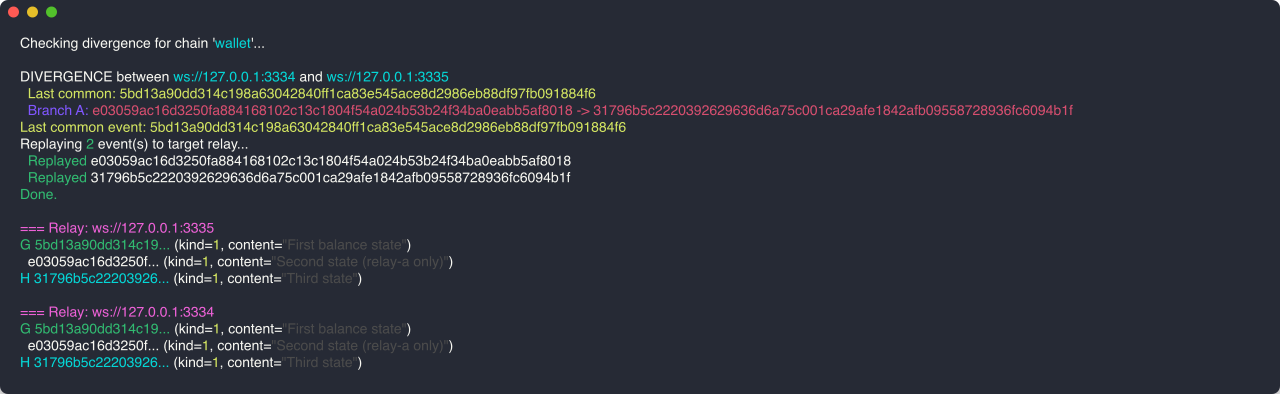
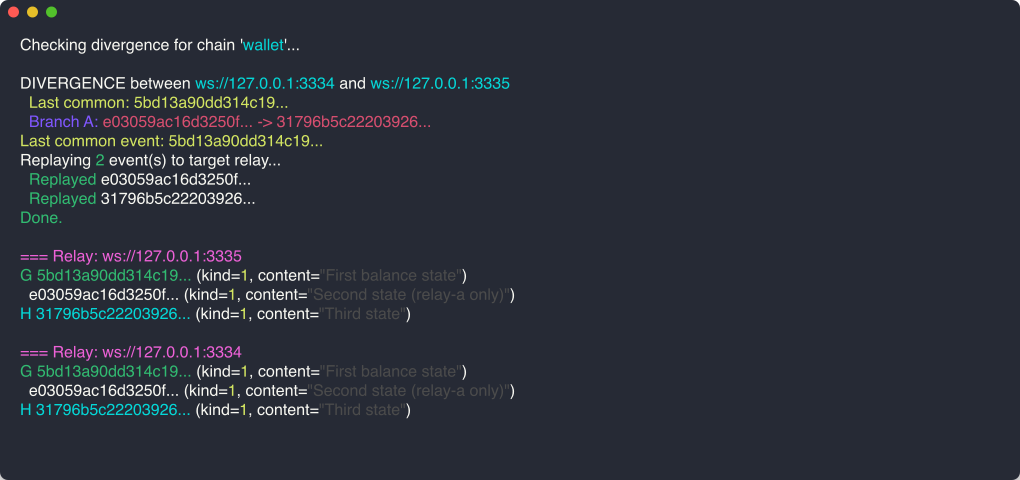
Update README

diff --git a/README.md b/README.md
@@ -1,54 +1,71 @@
 # serial-killer
 
-A Nostr relay implementing **NIP-EC** — relay-enforced linear event chains.
+A Nostr relay implementing **[NIP-EC](https://github.com/pablof7z/serial-killer/blob/main/EC.md)** — relay-enforced linear event chains.
 
-**The problem:** Nostr clients that maintain ordered state (wallets, document history) have no way to prevent conflicting writes. Two clients can publish different "next states", and relays silently diverge.
+A relay-side mechanism that prevents concurrent or stale writes by requiring every event to chain off the last accepted one.
 
-**The fix:** Tag your events with `["chain"]` to opt in. The relay accepts a new event only if its `["prev"]` matches the current head. Stale writes are rejected. No silent forks.
-
----
-
-## Demo: divergence and recovery
-
-Start two relays (`just run-relays`), then run the interactive client (`just run-client`).
-
-### Connect, genesis, diverge
-
-Connect to both relays, publish a genesis event, disconnect one relay, append to only the first, then reconnect and try to append to both. The second relay rejects with `stale-prev` — it missed an event.
-
-![](.github/demo-1.png)
-
-`G` marks the genesis, `H` marks the current head. Relay-a has advanced to the third event; relay-b is still at the genesis.
-
-### Detect and fix
-
-`diverge` finds the last common event and shows which branch each relay is on. `fix` replays the missing events from the canonical relay onto the diverged one.
-
-![](.github/demo-2.png)
-
-Both relays are now in sync.
+**Scope:** don't mistake this for a global enforcement or ordering guarantee. This enforcement is exclusive to each individual relay. There is no global.
 
 ---
 
-## Chain event format
+## Demo
 
-**Genesis** (starts a chain):
-
-```json
-{
-  "tags": [["chain"], ["d", "wallet"]]
-}
+### Connect to two relays
+```bash
+> connect ws://127.0.0.1:3334
+> connect ws://127.0.0.1:3335
 ```
 
-**Append** (extends the chain):
-
-```json
-{
-  "tags": [["chain"], ["d", "wallet"], ["prev", "<current-head-id>"]]
-}
+### Publish the first event in the chain to both
+```bash
+> genesis kind=1 First balance state
+Publishing event 5bd13a90dd314c19... to 2 relay(s)...
+  [ws://127.0.0.1:3334] OK
+  [ws://127.0.0.1:3335] OK
 ```
 
-If no `["d"]` tag is present, the chain name defaults to the event kind as a string.
+### Disconnect one relay and advance the chain without it
+```bash
+> disconnect ws://127.0.0.1:3335
+> append kind=1 Second state
+Publishing event e03059ac16d3250f... to 1 relay(s)...
+  [ws://127.0.0.1:3334] OK
+```
+
+### Reconnect — the stale relay rejects the next append
+```bash
+> connect ws://127.0.0.1:3335
+> append kind=1 Third state
+Publishing event 31796b5c22203926... to 2 relay(s)...
+  [ws://127.0.0.1:3335] FAILED: msg: invalid: chain:stale-prev current=5bd13a90dd314c19...
+  [ws://127.0.0.1:3334] OK
+```
+
+### Detect and fix the divergence
+```bash
+> diverge 1
+DIVERGENCE between ws://127.0.0.1:3334 and ws://127.0.0.1:3335
+  Last common: 5bd13a90dd314c19...
+  Branch A: e03059ac16d3250f... -> 31796b5c22203926...
+
+> fix ws://127.0.0.1:3335 1 ws://127.0.0.1:3334
+Replaying 2 event(s) to target relay...
+  Replayed e03059ac16d3250f...
+  Replayed 31796b5c22203926...
+Done.
+```
+
+---
+
+Any kind works. Here's a kind-3 contact list chained via `nak`:
+
+```bash
+$ nak event -k 3 -t chain -p fa984bd7... ec1.f7z.io
+publishing to ec1.f7z.io... success.
+
+$ nak event -k 3 -p fa984bd7... ec1.f7z.io
+publishing to ec1.f7z.io... failed: msg: invalid: chain:missing-prev 444037895ad02e3e...
+```
 
 ## Opting out
 

diff --git a/EC.md b/EC.md
@@ -6,6 +6,8 @@
 
 This NIP defines an opt-in mechanism for relay-enforced linear event chains.
 
+Don't mistake this NIP for a global enforcement or ordering guarantee. This enforcement is exclusive to each individual relay. There is no global.
+
 ```
 accept event iff prev == current known state
 ```
